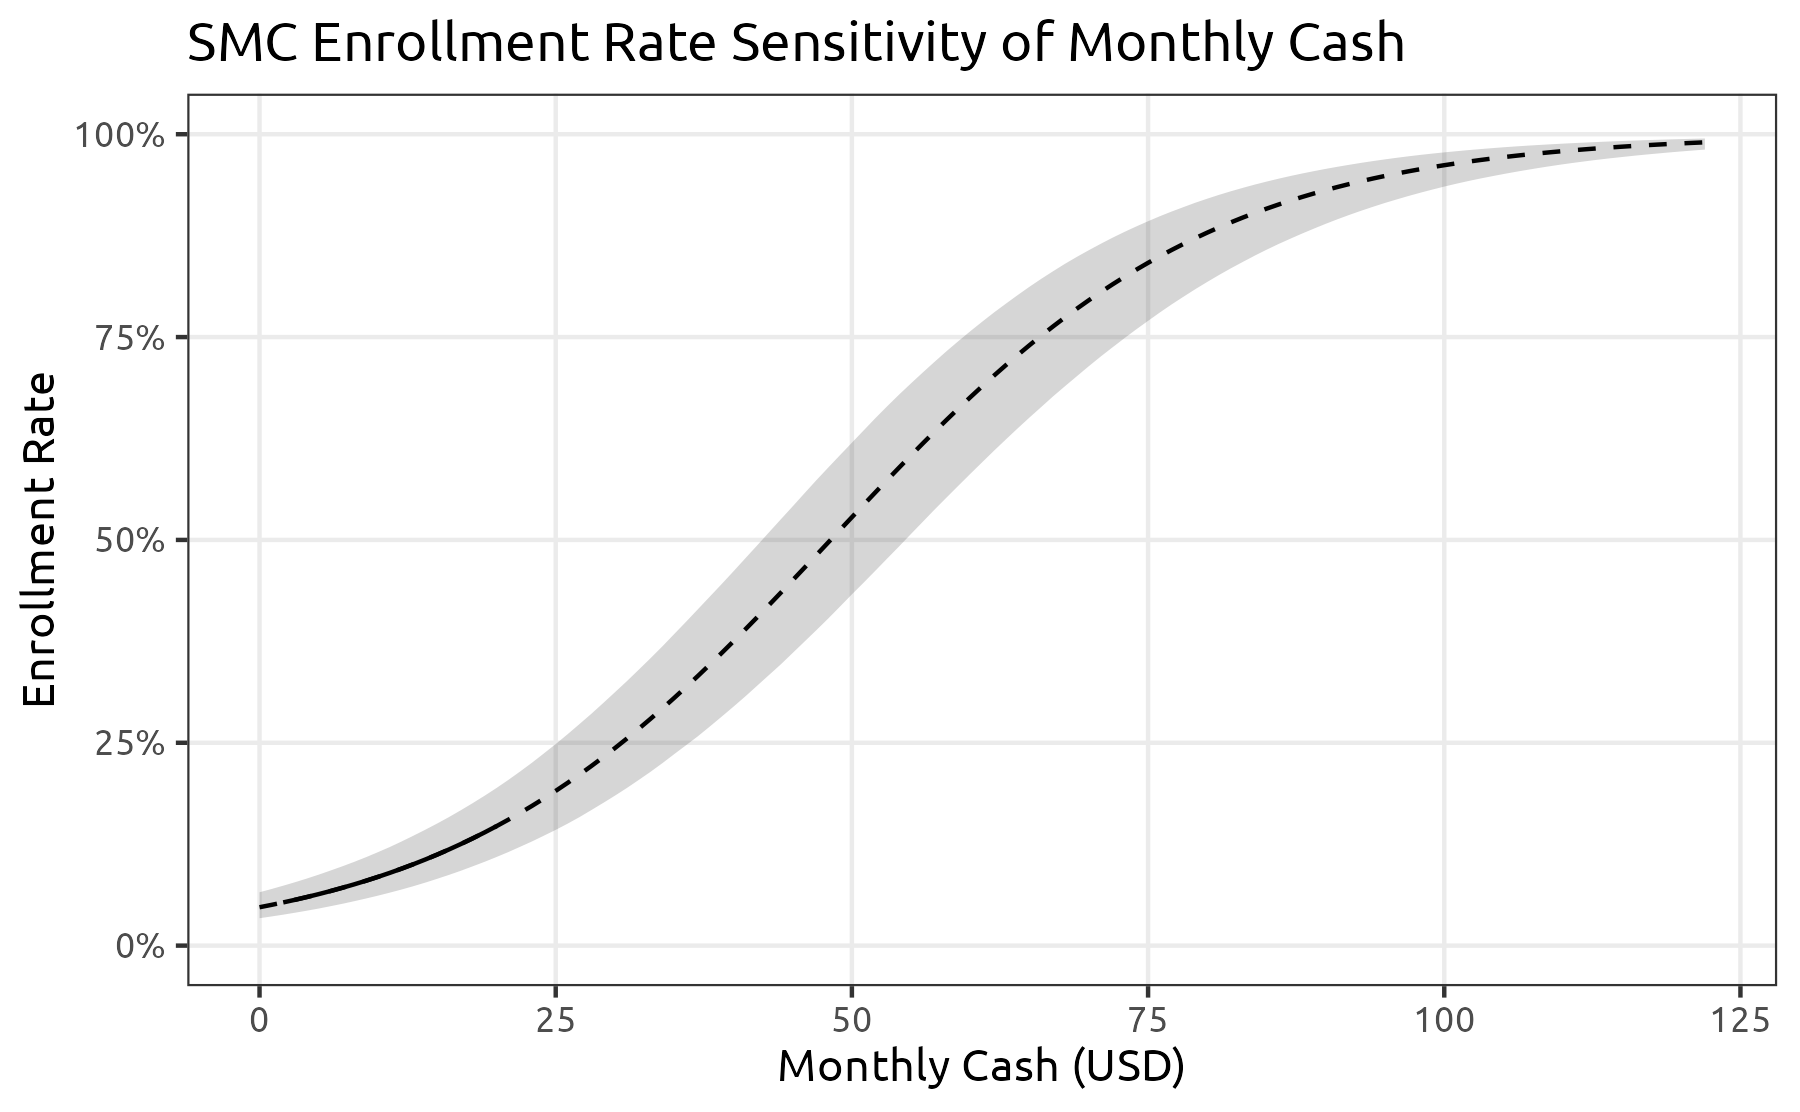
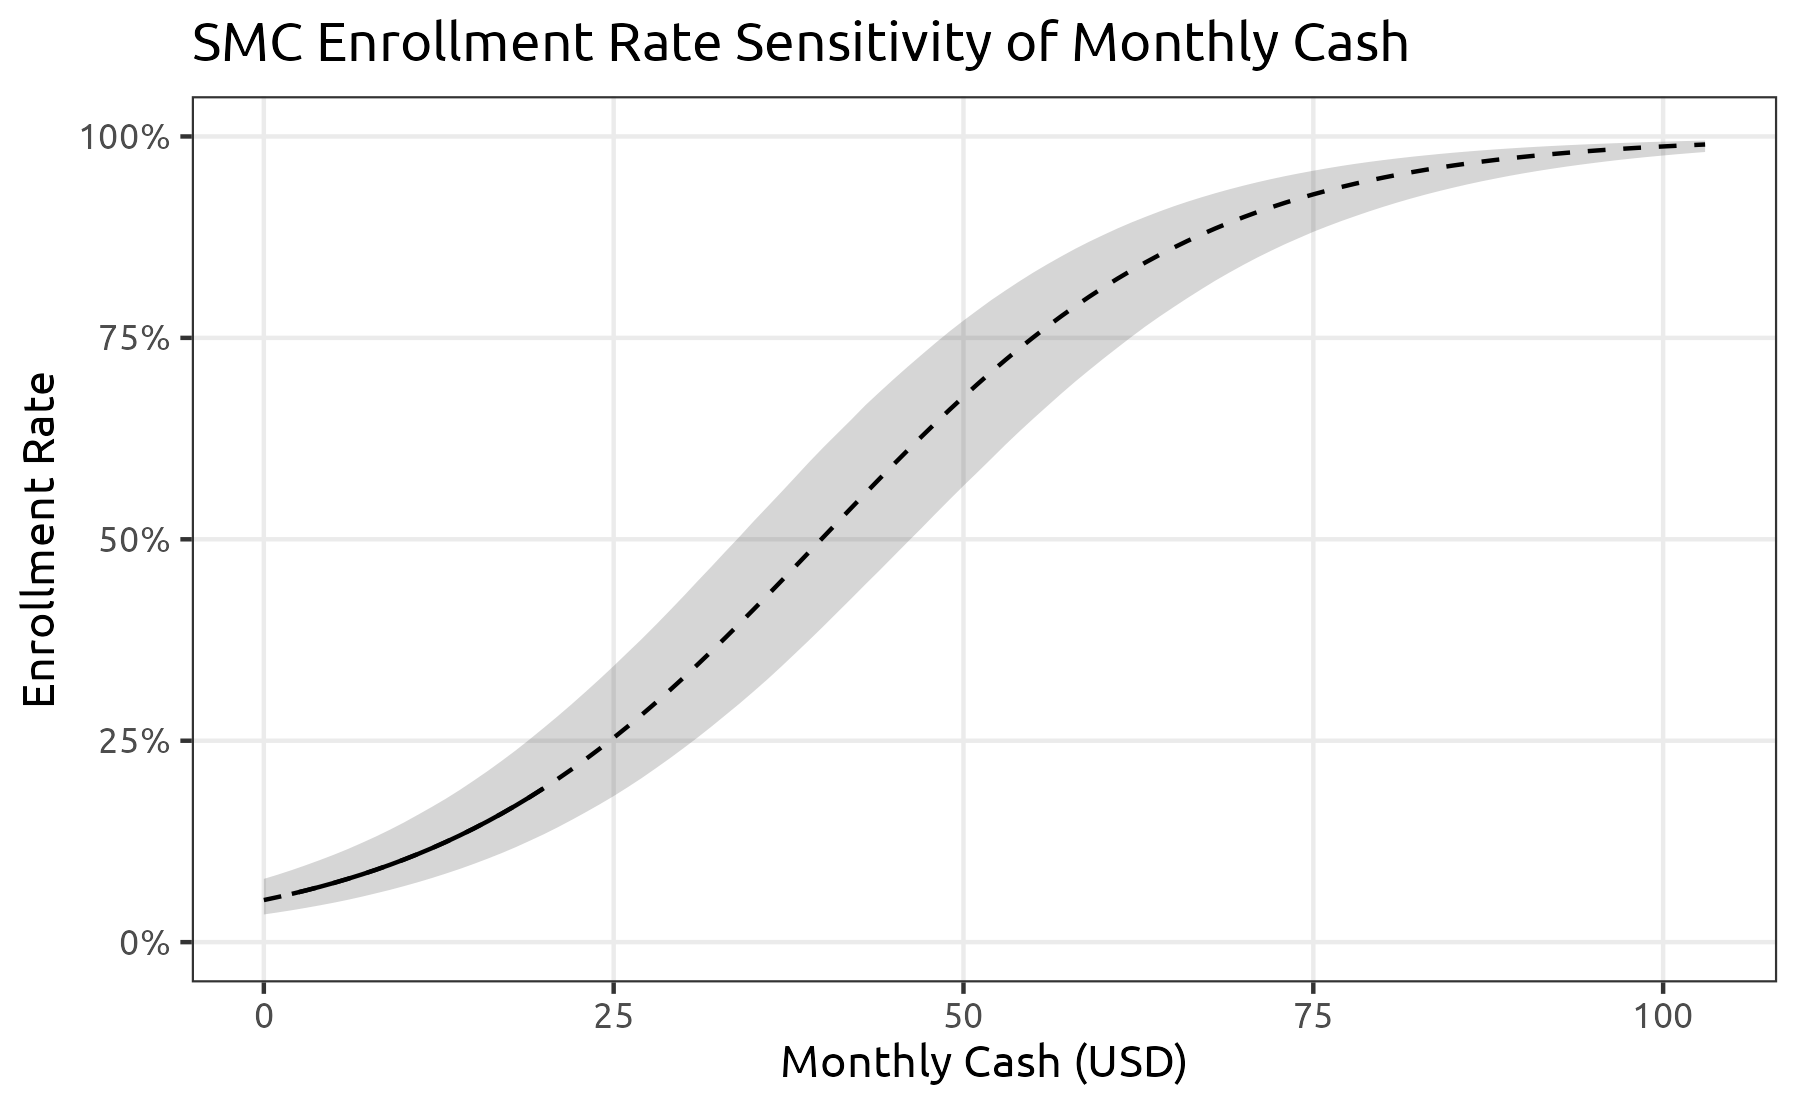
Switch monthly sensitivity analysis to mixed logit model
Replaced the multinomial logit monthly sensitivity analysis with a mixed logit version, updating script names, code logic, and output files accordingly. Updated documentation in README files and run.R to reflect the new analysis workflow.

diff --git a/README.md b/README.md
@@ -84,9 +84,9 @@ analysis, simply run the `run.R` file.
 | `analysis/0_source_scripts.R` | Triggers all analysis code, called by `run.R`. |
 | `analysis/1_clean_data.R` | Cleans the raw survey data and saves into the `results/` directory. |
 | `analysis/2_summary_statistics_plots.R` | Generates the summarized plots of the raw survey data and saves into the `results/1_summary/` directory. |
-| `analysis/3_mnl_pref_model.R` | Constructs the multinomial logit model with user preference space and saves into the `results/2_models/` directory. |
-| `analysis/4_mnl_enrollment_sensitivity.R` | Simulates the user enrollment sensitivity of smart charging programs and saves into the `results/3_enrollment_sensitivity/` directory. |
-| `analysis/5_mnl_scenario_analysis.R` | Simulates the scenario analysis and saves into the `results/4_scenario_analysis/` directory. |
+| `analysis/3_XX.R` | Scripts starting with `3_` analyze the multinomial logit model, results saved into the `results/2_models/`, `results/3_enrollment_sensitivity`, and `results/4_scenario_analysis` directories. |
+| `analysis/4_XX.R` | R scripts starting with `4_` analyze the mixed logit model, results saved into the `results/2_models/`, `results/3_enrollment_sensitivity`, and `results/4_scenario_analysis` directories. |
+| `analysis/5_XX.R` | R scripts starting with `5_` analyze the gender-weighted mixed logit model, results saved into the `results/2_models/`, `results/3_enrollment_sensitivity`, and `results/4_scenario_analysis` directories. |
 | `design/1_power_analysis_smc.R` | Performs power analysis conjoint survey questions to help determine the expected number of participants. |
 | `design/2_make_choice_questions.R` | Generates conjoint choice questions and save csv files into the `data/` directory. |
 | `design/3_make_smc_battery_figs.R` | Generates battery condition figures for the SMC smart charging programs and saves into the `figs/` directory. |
